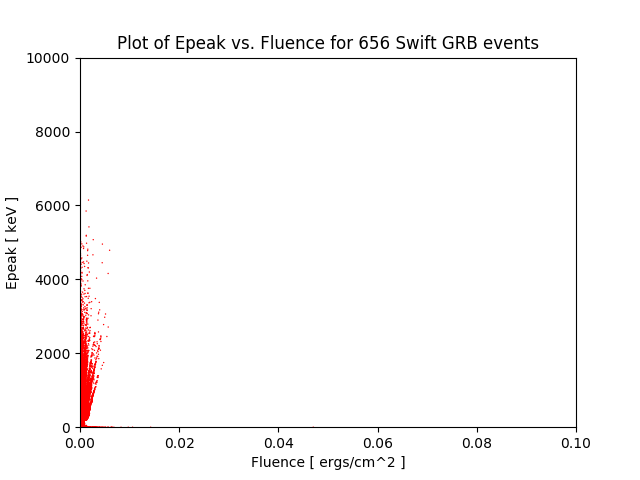
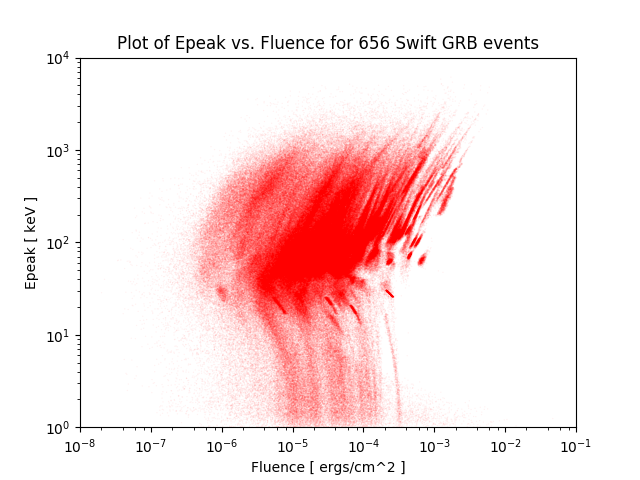
Fixed plotting problem in HW9

diff --git a/Homework/9/Question1.py b/Homework/9/Question1.py
@@ -35,6 +35,8 @@ def plotter(inPath,figFile):
 	ax = plt.gca()  # generate a plot handle
 	ax.set_xlabel('Fluence [ ergs/cm^2 ]') # set X axis title
 	ax.set_ylabel('Epeak [ keV ]')  # set Y axis title
+	ax.set_yscale('log')
+	ax.set_xscale('log')
 	ax.axis([1.0e-8, 1.0e-1, 1.0, 1.0e4]) # set axix limits [xmin, xmax, ymin, ymax]
 	counter = 0     # counts the number of events
 	
@@ -51,7 +53,7 @@ def plotter(inPath,figFile):
 
 link = "http://butler.lab.asu.edu/swift/bat_time_table.html"
 outputPath = "q1output/"
-fetchHTMLTable(link,outputPath)
-fileRetriever(outputPath)
+#fetchHTMLTable(link,outputPath)
+#fileRetriever(outputPath)
 plotter(outputPath,'fig.png')
 print("Program Complete")
